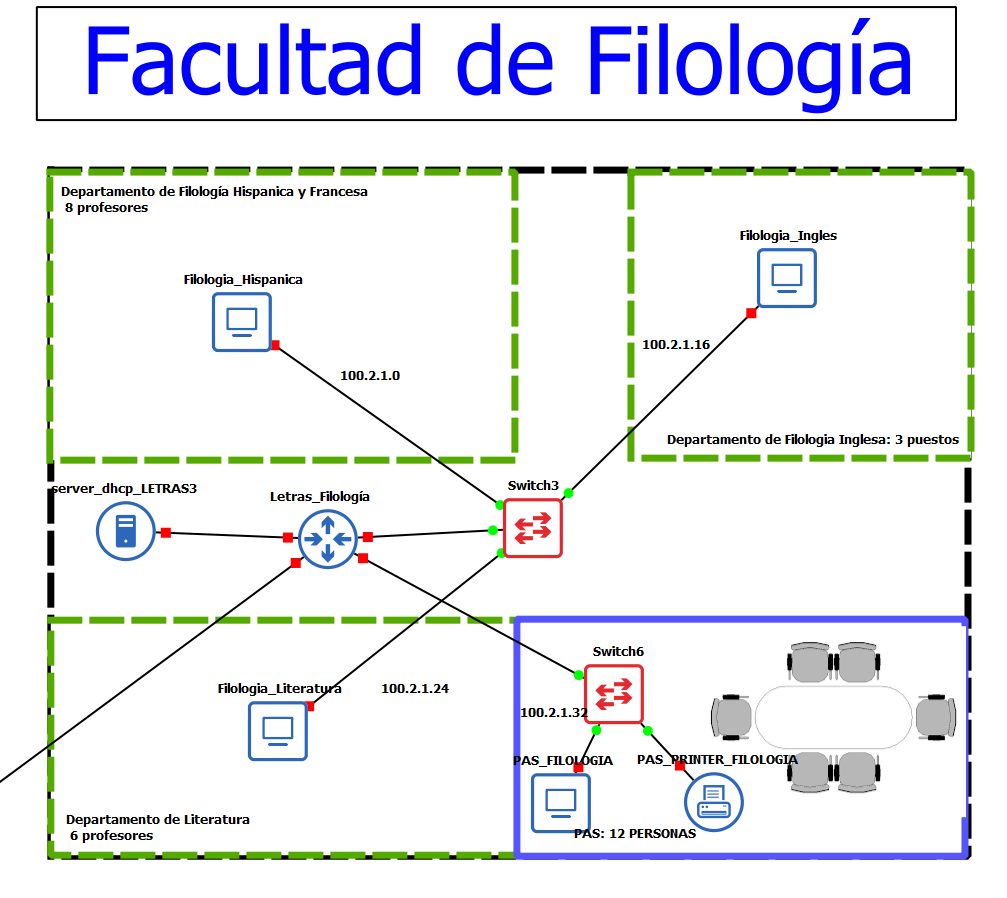
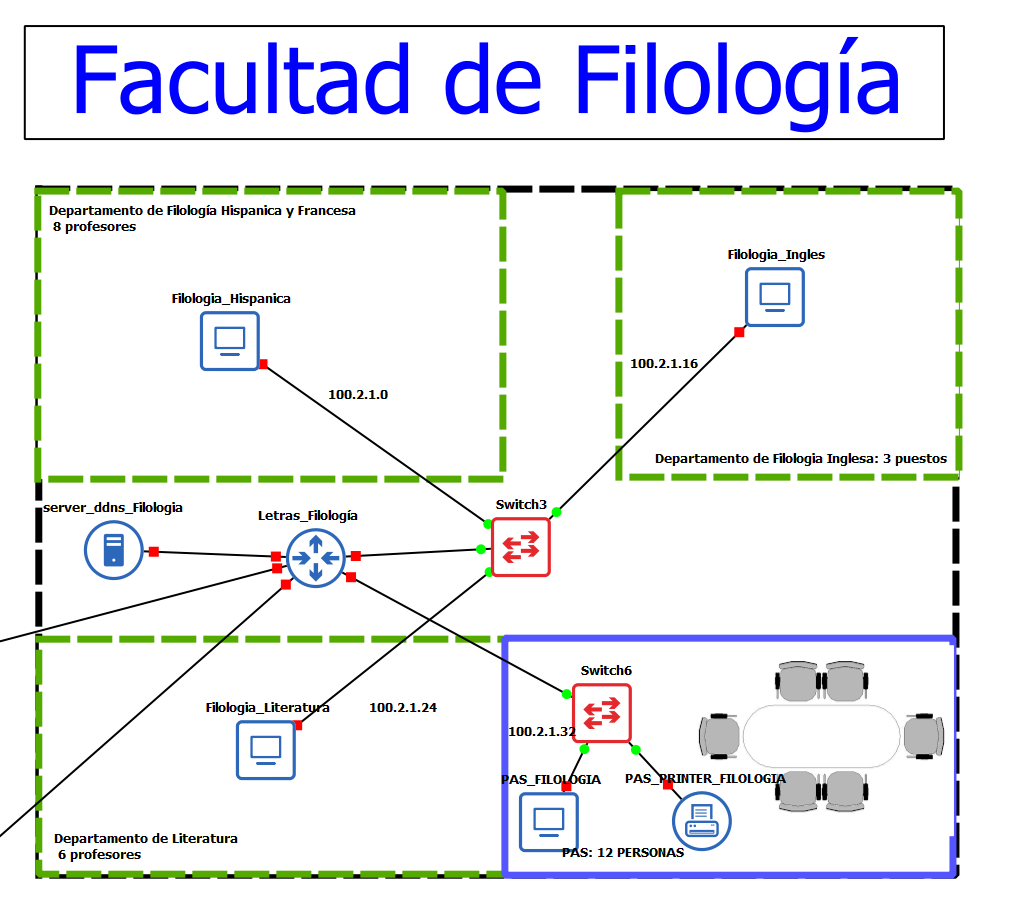
final capstone

Changed region(s): [[0.0, 0.1871, 0.9851, 0.9978], [0.0, 0.0, 0.9543, 0.1559], [0.708, 0.2494, 0.8312, 0.3742]]

diff --git a/paginas/letras.html b/paginas/letras.html
@@ -34,6 +34,53 @@
             <p> Campus Letras </p>
         </div>
 
+        <section id="servicios-informatica">
+            <h2 class="subtitle"> Servicios Informática - Estructura </h2>
+            <p>
+                La seccion que une al todas las facultades y la que les brinda servicios, para este proposito se usa un enrutamiento general desde este puerto hacia todos los campus este manejara el ingreso a internet se conectara a otros gns3 a travez de un udp tunnel los servicios constan de mantenimiento y redes.
+            </p>
+            <div class="image">
+                <a href="../img/letras/serv_informatica.png">
+                    <img src="../img/letras/serv_informatica.png" alt="INFOR">
+                </a>
+                <p> Campus Letras - Servicios Informática </p>
+            </div>
+
+        </section>
+
+        <section id="fw-externo">
+            <h2 class="subtitle"> Firewall Externo </h2>
+            <div class="image">
+                <a href="../img/letras/FIREWALL_EXTERNO.png">
+                    <img src="../img/letras/FIREWALL_EXTERNO.png" alt="fw_externo">
+                </a>
+                <p> Reglas iptables para el Firewall Externo </p>
+            </div>
+        </section>
+
+        <section id="fw-interno">
+            <h2 class="subtitle"> Firewall Interno </h2>
+            <div class="image">
+                <a href="../img/letras/FIREWALL_INTERNO.png">
+                    <img src="../img/letras/FIREWALL_INTERNO.png" alt="fw_interno">
+                </a>
+                <p> Reglas iptables para el Firewall Interno </p>
+            </div>
+        </section>
+
+        <section id="servicios-generales">
+            <h2 class="subtitle"> Servicios Generales - Estructura </h2>
+            <p>
+                Esta es la seccion de servicios que incluye servicios a alumnos como psicologia biblioteca gestion academica y el rectorado esta a su vez usa el enrutamiento para conectarse debido a su necesidad de poseer las notas de sus alumnos. 
+            </p>
+            <div class="image">
+                <a href="../img/letras/serv_generales.png">
+                    <img src="../img/letras/serv_generales.png" alt="SERV_GENERAL">
+                </a>
+                <p> Campus Letras - Servicios Generales </p>
+            </div>
+        </section>
+
         <section id="derecho">
             <h2 class="subtitle"> Facultad de Derecho - Estructura </h2>
             <p>
@@ -58,33 +105,6 @@
                 </a>
                 <p> Campus Letras - F. Filología </p>
             </div>
-        </section>
-
-        <section id="servicios-generales">
-            <h2 class="subtitle"> Servicios Generales - Estructura </h2>
-            <p>
-                Esta es la seccion de servicios que incluye servicios a alumnos como psicologia biblioteca gestion academica y el rectorado esta a su vez usa el enrutamiento para conectarse debido a su necesidad de poseer las notas de sus alumnos. 
-            </p>
-            <div class="image">
-                <a href="../img/letras/serv_generales.png">
-                    <img src="../img/letras/serv_generales.png" alt="SERV_GENERAL">
-                </a>
-                <p> Campus Letras - Servicios Generales </p>
-            </div>
-        </section>
-
-        <section id="servicios-informatica">
-            <h2 class="subtitle"> Servicios Informática - Estructura </h2>
-            <p>
-                La seccion que une al todas las facultades y la que les brinda servicios, para este proposito se usa un enrutamiento general desde este puerto hacia todos los campus este manejara el ingreso a internet se conectara a otros gns3 a travez de un udp tunnel los servicios constan de mantenimiento y redes.
-            </p>
-            <div class="image">
-                <a href="../img/letras/serv_informatica.png">
-                    <img src="../img/letras/serv_informatica.png" alt="INFOR">
-                </a>
-                <p> Campus Letras - Servicios Informática </p>
-            </div>
-
         </section>
 
         <h3> Configuración de enrutamiento </h3>

diff --git a/paginas/memorias.html b/paginas/memorias.html
@@ -69,19 +69,6 @@
 
         </section>
 
-        <!--
-        <section id="accesos">
-            <h2> ACCESOS </h2>
-            
-            <div class="section-container">
-                <h3> Acceso a Internet </h3>
-            </div>
-            <div class="section-container">
-                <h3> Acceso SSH </h3>
-            </div>
-        </section>
-        -->
-
         <section id="bitacora">
             <h2> BITÁCORA</h2>
             <p>
@@ -100,6 +87,8 @@
                     <li> Correcciones en la Topologia General </li>
                     <li> Diseño de la DMZ en el Campus de Técnicas  </li>
                     <li> Implementación de los servicios DHCP y DNS en el campus de Técnicas </li>
+                    <li> Conexion de Internet a la Topologia y configuracion Nat en el Router de borde </li>
+                    <li> Creación de las reglas de Firewall mediante iptables y correcto filtrado de FORWARDING del FIREWALL EXTERNO e INTERNO </li>
                 </ul>
             </div>
     
@@ -114,6 +103,9 @@
                     <li> Implementación del servicio DHCP en el router principal del Campus de Ciencias </li>
                     <li> Implementación del servicio DNS en el campos de Ciencias </li>
                     <li> Implementación del enrutamiento en el campus de Ciencias </li>
+                    <li> Implementación del servicio DDNS Maestro Esclavo en el campus de Letras </li>
+                    <li> Mejoras de la implementación DNS en el campus de Ciencias, ahora es DDNS Esclavo </li>
+                    <li> Conexión de redes con ospf en los routers que están conectados a los servidores DDNS </li>
                     <li> Propuestas de mejoras para la interconectividad entre campus </li>
                     <li> Elaboración de las páginas en html </li>
                 </ul>
@@ -130,6 +122,9 @@
                     <li> Diseño de facultad de Letras </li>
                     <li> Tabla de Requisitos para técnicas </li>
                     <li> Investigación de material de interés para el proyecto. </li>
+                    <li> Rediseño de la topologia </li>
+                    <li> Implementacion de enrutamiento dinamico con OSPF en todas las redes </li>
+                    <li> Implementación de rutas estáticas de respaldo </li>
                 </ul>
             </div>
     

diff --git a/js/datos-indice.js b/js/datos-indice.js
@@ -32,10 +32,12 @@ const menuContent = [
         a: { content: 'CAMPUS LETRAS', link: './letras.html' },
         ul: [
             { class: 'lista-departamento' },
-            { id: 'l3-1', a: { content: 'Facultad de Derecho',   link: '#derecho' } },
-            { id: 'l3-2', a: { content: 'Facultad de Filología', link: '#filologia' } },
-            { id: 'l3-3', a: { content: 'Servicios Generales',   link: '#servicios-generales' } },
-            { id: 'l3-4', a: { content: 'Servicio Informática',  link: '#servicios-informatica' } }
+            { id: 'l3-1', a: { content: 'Servicio Informática',  link: '#servicios-informatica' } },
+            { id: 'l3-1-1', a: { content: 'Firewall Externo',  link: '#fw-externo' } },
+            { id: 'l3-1-2', a: { content: 'Firewall Interno',  link: '#fw-interno' } },
+            { id: 'l3-2', a: { content: 'Servicios Generales',   link: '#servicios-generales' } },
+            { id: 'l3-3', a: { content: 'Facultad de Derecho',   link: '#derecho' } },
+            { id: 'l3-4', a: { content: 'Facultad de Filología', link: '#filologia' } },
         ]
     },
     {
